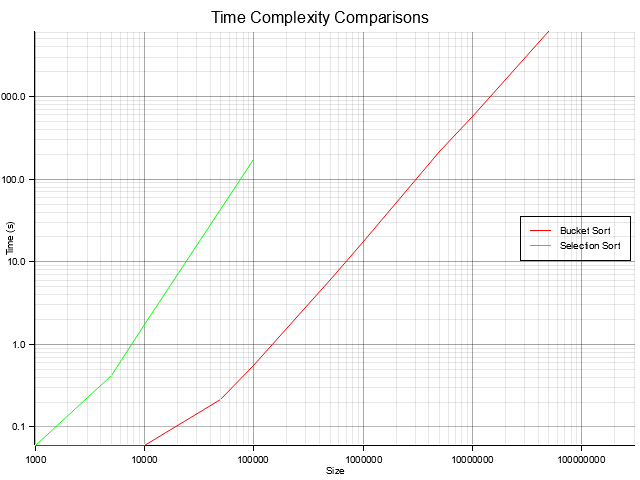
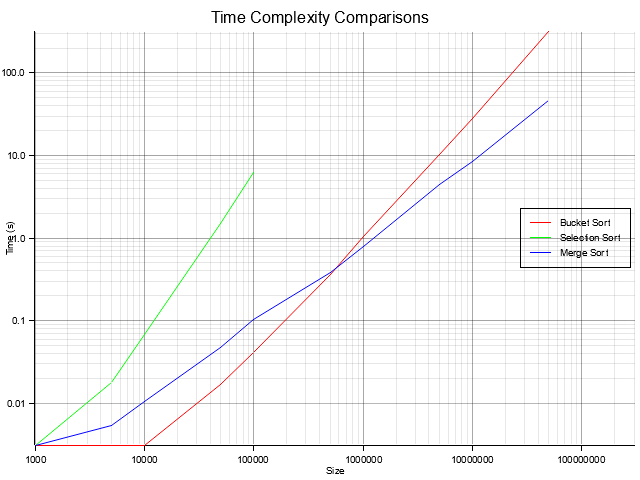
Added Merge sort

Changed region(s): [[0.0, 0.0625, 1.0, 0.9375], [0.2188, 0.9062, 0.25, 0.9375], [0.0, 0.8125, 0.0312, 0.8438]]

diff --git a/sorting_algo/src/main.rs b/sorting_algo/src/main.rs
@@ -38,6 +38,51 @@ fn selection_sort(arr: &mut Vec<i64>) {
     }
 }
 
+fn merge(left: &Vec<i64>, right: &Vec<i64>) -> Vec<i64> {
+    let mut i = 0;
+    let mut j = 0;
+    let mut merged: Vec<i64> = Vec::new();
+
+    while i < left.len() && j < right.len() {
+        if left[i] < right[j] {
+            merged.push(left[i]);
+            i = i + 1;
+        } else {
+            merged.push(right[j]);
+            j = j + 1;
+        }
+    }
+
+    if i < left.len() {
+        while i < left.len() {
+            merged.push(left[i]);
+            i = i + 1;
+        }
+    }
+
+    if j < right.len() {
+        while j < right.len() {
+            merged.push(right[j]);
+            j = j + 1;
+        }
+    }
+
+    merged
+}
+
+fn merge_sort(vec: &Vec<i64>) -> Vec<i64> {
+    if vec.len() < 2 {
+        vec.to_vec()
+    } else {
+        let size = vec.len() / 2;
+        let left = merge_sort(&vec[0..size].to_vec());
+        let right = merge_sort(&vec[size..].to_vec());
+        let merged = merge(&left, &right);
+
+        merged
+    }
+}
+
 
 fn plot_all_results(results: &[(String, Vec<(u128, f64)>)]) {
     let root = BitMapBackend::new("plot.png", (640, 480)).into_drawing_area();
@@ -81,6 +126,7 @@ fn main() -> io::Result<()> {
     let mut results: Vec<(String, Vec<(u128, f64)>)> = Vec::new();
     let mut bucket_sort_times: Vec<(u128, f64)> = Vec::new();
     let mut selection_sort_times: Vec<(u128, f64)> = Vec::new();
+    let mut merge_sort_times: Vec<(u128, f64)> = Vec::new();
     
     for &size in sizes_bucket.iter() {
         let mut rng = rand::thread_rng();
@@ -104,10 +150,18 @@ fn main() -> io::Result<()> {
             selection_sort_times.push((size as u128, duration));
             println!("Selection sorted array of size {} in {} seconds", size, duration);
         }
+        if size <= 5_0000000 {
+            let start = Instant::now();
+            merge_sort(&mut arr);
+            let duration = start.elapsed().as_secs_f64();
+            merge_sort_times.push((size as u128, duration));
+            println!("Merge sorted array of size {} in {} seconds", size, duration);
+        }
     }
     
     results.push(("Bucket Sort".to_string(), bucket_sort_times));
     results.push(("Selection Sort".to_string(), selection_sort_times));
+    results.push(("Merge Sort".to_string(), merge_sort_times));
     
     let mut file = File::create("bucket_sort_times.txt")?;
     for (algorithm, times) in results.iter() {
